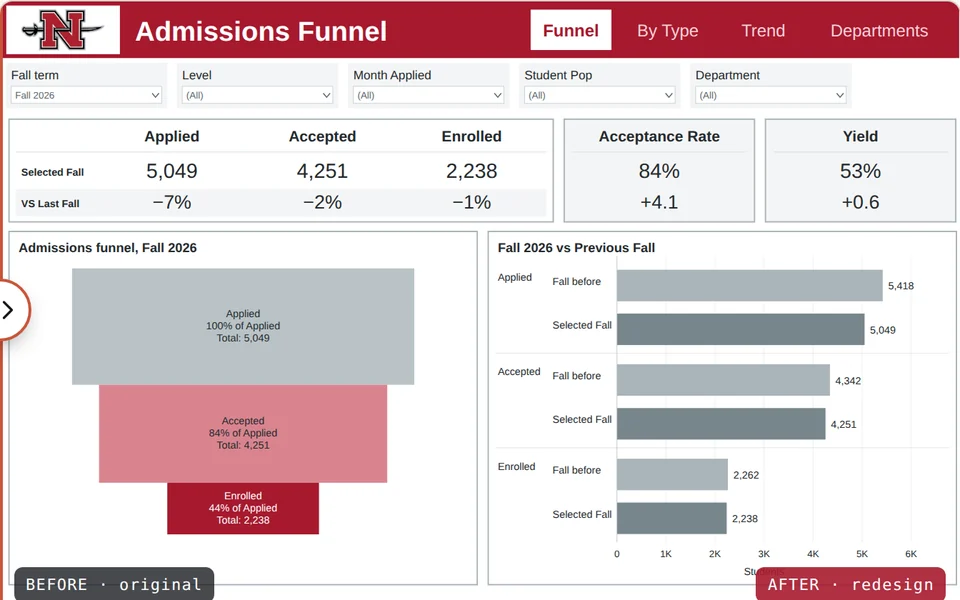
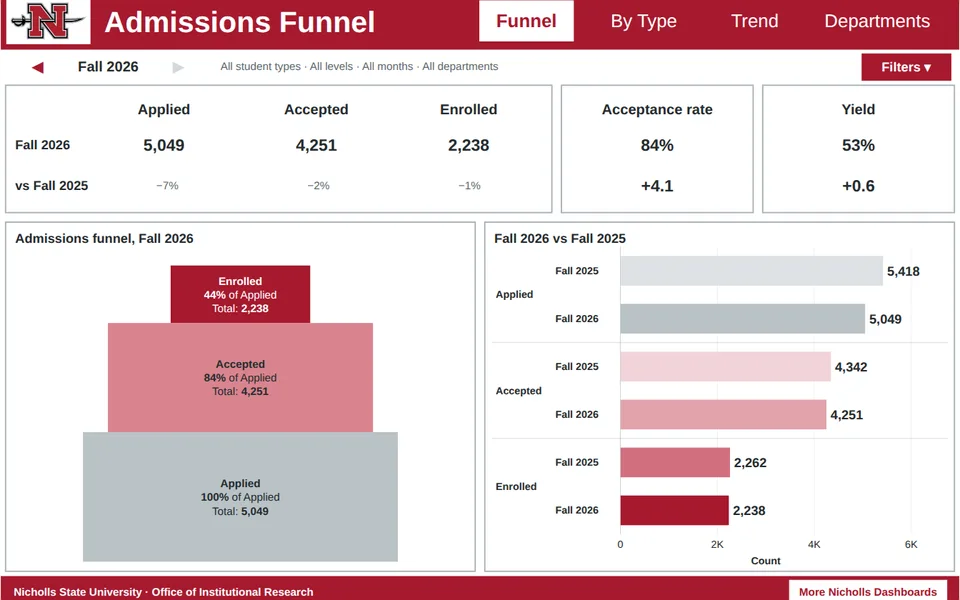
Admissions demo: match the v27 dashboard (fall stepper, filter summary, filters button, key-figure changes, six-shade comparison, footer link) (#18)

diff --git a/src/demo-dash.js b/src/demo-dash.js
@@ -40,71 +40,140 @@ function admissionsModel(D, sel) {
   const cur = c[sel.fall], before = prev ? c[prev] : [null, null, null];
   return {
     fall: D.falls[i].label, prevFall: prev ? D.falls[i - 1].label : '', fallCode: sel.fall, group: D.groups.find((g) => g.key === sel.group).label,
+    groupKey: sel.group, prevCode: prev, nextCode: i < D.falls.length - 1 ? D.falls[i + 1].code : null,
+    prevName: `Fall ${String(sel.fall - 100).slice(0, 4)}`, filtersOpen: !!sel.filtersOpen,
     cur, before,
     acc: ratio(cur[1], cur[0]), yld: ratio(cur[2], cur[1]),
     accPrev: ratio(before[1], before[0]), yldPrev: ratio(before[2], before[1]),
   };
 }
 
+// The redesign as the owner's v27 workbook lays it out (1400 × 900): red header with page buttons,
+// a fall stepper and filter summary with the filters behind one button, key figures with their change,
+// then the funnel and this fall against the one before. Tableau point sizes are drawn at 4/3 px.
+const PT = (n) => Math.round((n * 4) / 3);
+const STEP_OFF = '#d3d8da';
+const FUNNEL_FILL = ['#b9c2c6', '#d9848f', RED];
+const VS_FILL = { before: ['#dde2e4', '#f2d3d8', '#d26f7e'], sel: ['#b9c2c6', '#e3a3ac', RED] };
+const TYPE_NAME = { N: 'New FTF', T: 'Transfer', R: 'Readmit', I: 'International', A: 'Adult', Other: 'Other', grad: 'Graduate' };
+
+function admHeader(title, buttons, active) {
+  let s = R(0, 0, W, 84, RED);
+  s += R(8, 8, 123, 68, '#fff') + `<image href="${BASE}img/nicholls-n.webp" x="12" y="12" width="115" height="60" preserveAspectRatio="xMidYMid meet"/>`;
+  s += T(151, 58, title, { size: PT(32), weight: 700, fill: '#fff' });
+  [[699, 138], [861, 157], [1042, 119], [1185, 191]].forEach(([x, w], i) => {
+    const on = i === active;
+    s += R(x, 12, w, 60, on ? '#fff' : RED);
+    s += T(x + w / 2, 51, buttons[i], { anchor: 'middle', size: PT(20), weight: on ? 700 : 400, fill: on ? RED : '#fff' });
+  });
+  return s;
+}
+
+function filterSummary(m) {
+  const type = m.groupKey === 'all' || m.groupKey === 'ug' ? 'All student types' : TYPE_NAME[m.groupKey] || m.group;
+  const level = m.groupKey === 'ug' ? 'Undergraduate' : m.groupKey === 'grad' ? 'Graduate' : 'All levels';
+  return [type, level, 'All months', 'All departments'].join('   ·   ');
+}
+
+function filterPanel(m) {
+  // Hidden until the Filters button is pressed, as in the workbook.
+  let s = R(870, 134, 518, 302, '#fff', { stroke: FRAME });
+  const card = (x, y, title, value) => {
+    s += T(x + 4, y + 24, title, { size: PT(14), fill: INK });
+    s += R(x + 4, y + 36, 222, 30, '#fff', { stroke: '#c9cfd1' }) + T(x + 12, y + 57, value, { size: PT(12), fill: MUTED });
+    s += `<path d="M${x + 208} ${y + 47}l5 6 5-6" fill="none" stroke="${MUTED}" stroke-width="1.6"/>`;
+  };
+  const type = m.groupKey === 'all' || m.groupKey === 'ug' ? '(All)' : TYPE_NAME[m.groupKey] || m.group;
+  const level = m.groupKey === 'ug' ? 'Undergraduate' : m.groupKey === 'grad' ? 'Graduate' : '(All)';
+  card(886, 150, 'Fall term', m.fall);
+  card(886, 230, 'Student type', type); card(1136, 230, 'Level', level);
+  card(886, 310, 'Month applied', '(All)'); card(1136, 310, 'Department', '(All)');
+  return s;
+}
+
 function admissionsAfter(m) {
-  const [app, acc, enr] = m.cur.map((v) => v || 0);
   let s = R(0, 0, W, H, '#fff');
-  s += header('Admissions Funnel', ['Funnel', 'By Type', 'Trend', 'Departments'], 0);
-  s += filterBar([['Fall term', m.fall], ['Level', m.group === 'Graduate' ? 'Graduate' : m.group === 'Undergraduate' ? 'Undergraduate' : '(All)'], ['Month Applied', '(All)'], ['Student Pop', ['All students', 'Undergraduate', 'Graduate'].includes(m.group) ? '(All)' : m.group], ['Department', '(All)']]);
+  s += admHeader('Admissions Funnel', ['Funnel', 'By Type', 'Trend', 'Departments'], 0);
 
-  // Key figures table
-  s += tile(12, 172, 795, 150, '');
-  const cols = [250, 470, 688];
-  ['Applied', 'Accepted', 'Enrolled'].forEach((h, k) => { s += T(cols[k], 205, h, { anchor: 'middle', size: 22, weight: 700, fill: INK }); });
-  s += L(22, 220, 797, 220, '#d5dadd');
-  s += R(22, 274, 775, 40, BAR);
-  s += T(30, 255, 'Selected Fall', { size: 15, weight: 700, fill: INK }) + T(30, 300, 'VS Last Fall', { size: 15, weight: 700, fill: INK });
+  // Fall stepper: ◀ Fall 2026 ▶, an arrow greys out at the first or last fall.
+  const canPrev = !!m.prevCode, canNext = !!m.nextCode;
+  [[54, '◀', canPrev ? RED : STEP_OFF, canPrev ? 'prev' : ''], [157, m.fall, INK, ''], [260, '▶', canNext ? RED : STEP_OFF, canNext ? 'next' : '']].forEach(([x, t, fill, act]) => {
+    if (act) s += `<rect x="${x - 50}" y="90" width="100" height="37" fill="transparent" data-act="${act}" class="dash-act"><title>${act === 'prev' ? 'Previous fall' : 'Next fall'}</title></rect>`;
+    s += T(x, 116, t, { anchor: 'middle', size: PT(16), weight: 700, fill });
+  });
+  s += T(321, 114, filterSummary(m), { size: PT(12), fill: MUTED });
+  s += R(1258, 90, 130, 39, m.filtersOpen ? '#fff' : RED, { stroke: RED });
+  s += T(1323, 116, m.filtersOpen ? 'Filters ▴' : 'Filters ▾', { anchor: 'middle', size: PT(14), weight: 700, fill: m.filtersOpen ? RED : '#fff' });
+  s += `<rect x="1258" y="90" width="130" height="39" fill="transparent" data-act="filters" class="dash-act"><title>Show or hide the filters</title></rect>`;
+
+  // Key figures: Applied / Accepted / Enrolled for the fall, and the change on the fall before.
+  s += tile(7, 136, 798, 186, '');
+  const colX = (k, left) => left + ((795 - left) * (k + 0.5)) / 3;
+  ['Applied', 'Accepted', 'Enrolled'].forEach((h, k) => { s += T(colX(k, 127), 178, h, { anchor: 'middle', size: PT(16), weight: 700, fill: INK }); });
+  s += T(21, 230, m.fall, { size: PT(14), weight: 700, fill: INK }) + T(21, 289, `vs ${m.prevName}`, { size: PT(14), weight: 700, fill: INK });
   m.cur.forEach((v, k) => {
-    s += T(cols[k], 258, fmt(v), { anchor: 'middle', size: 30, fill: INK });
-    s += T(cols[k], 303, signedPct(change(v, m.before[k])), { anchor: 'middle', size: 28, fill: INK });
+    s += T(colX(k, 127), 232, fmt(v), { anchor: 'middle', size: PT(18), weight: 700, fill: INK });
+    s += T(colX(k, 133), 288, signedPct(change(v, m.before[k])), { anchor: 'middle', size: PT(12), fill: MUTED });
   });
-  [[823, 'Acceptance Rate', m.acc, m.accPrev], [1117, 'Yield', m.yld, m.yldPrev]].forEach(([x, t, v, p]) => {
-    s += R(x, 172, 278, 150, BAR, { stroke: FRAME, sw: 2 });
-    s += T(x + 139, 205, t, { anchor: 'middle', size: 22, weight: 700, fill: INK }) + L(x + 12, 220, x + 266, 220, '#d5dadd');
-    s += T(x + 139, 258, pct(v), { anchor: 'middle', size: 30, fill: INK });
-    s += T(x + 139, 303, signedPts(v != null && p != null ? (v - p) * 100 : null), { anchor: 'middle', size: 28, fill: INK });
+  [[819, 'Acceptance rate', m.acc, m.accPrev], [1113, 'Yield', m.yld, m.yldPrev]].forEach(([x, t, v, p]) => {
+    s += tile(x, 136, 280, 186, '');
+    s += T(x + 140, 178, t, { anchor: 'middle', size: PT(16), weight: 700, fill: INK });
+    s += T(x + 140, 232, pct(v), { anchor: 'middle', size: PT(18), weight: 700, fill: INK });
+    s += T(x + 140, 291, signedPts(v != null && p != null ? (v - p) * 100 : null), { anchor: 'middle', size: PT(18), weight: 700, fill: INK });
   });
 
-  // Funnel: width and height both follow the count, centered.
-  s += tile(12, 336, 684, 516, `Admissions funnel, ${m.fall}`);
-  const top = 390, maxW = 500, maxH = 170, cx = 354;
-  let y = top;
+  // Funnel: one stacked bar, each status as tall and as wide as its count, Applied at the base.
+  s += tile(7, 336, 686, 510, `Admissions funnel, ${m.fall}`);
+  const [app] = m.cur.map((v) => v || 0);
+  const tot = m.cur.reduce((a, v) => a + (v || 0), 0);
+  const yB = 832, yT = 382, top = ticks(tot || 1, 6).top, cx = 350, maxW = 460;
+  const sy = (v) => yB - ((yB - yT) * v) / top;
+  let acc = 0;
   ['Applied', 'Accepted', 'Enrolled'].forEach((st, k) => {
-    const v = m.cur[k] || 0, f = app ? v / app : 0;
-    const w = maxW * f, h = Math.max(maxH * f, 34);
-    const fill = ['#b9c2c6', '#d9848f', RED][k];
-    const ink = k === 2 ? '#fff' : INK;
-    const tip = `${st}, ${m.fall}: ${fmt(m.cur[k])} students · ${pct(f)} of applied`;
-    s += R(cx - w / 2, y, w, h, fill, { tip, tour: `adm-funnel-${k}` });
-    const mid = y + h / 2;
-    s += T(cx, mid - 14, st, { anchor: 'middle', size: 15, fill: ink }) + T(cx, mid + 4, `${pct(f)} of Applied`, { anchor: 'middle', size: 15, fill: ink }) + T(cx, mid + 22, `Total: ${fmt(m.cur[k])}`, { anchor: 'middle', size: 15, fill: ink });
-    y += h;
+    const v = m.cur[k] || 0, f = app ? v / app : 0, w = Math.max(maxW * f, 24);
+    const ya = sy(acc + v), yb = sy(acc);
+    const ofAcc = k && m.cur[1] ? `${pct(v / m.cur[1])} of Accepted\n` : '';
+    s += R(cx - w / 2, ya, w, yb - ya, FUNNEL_FILL[k], { tip: `${st}\n${pct(f)} of Applied\n${ofAcc}Total: ${fmt(m.cur[k])}`, tour: `adm-funnel-${k}` });
+    const ink = k === 2 ? '#fff' : INK, mid = (ya + yb) / 2;
+    s += T(cx, mid - 14, st, { anchor: 'middle', size: PT(12), weight: 700, fill: ink });
+    s += `<text x="${cx}" y="${mid + 6}" text-anchor="middle" font-size="${PT(12)}" fill="${ink}"><tspan font-weight="700">${pct(f)}</tspan> of Applied</text>`;
+    s += `<text x="${cx}" y="${mid + 26}" text-anchor="middle" font-size="${PT(12)}" fill="${ink}">Total: <tspan font-weight="700">${fmt(m.cur[k])}</tspan></text>`;
+    acc += v;
   });
 
-  // Selected fall vs fall before
-  s += tile(712, 336, 684, 516, `${m.fall} vs Previous Fall`);
-  const x0 = 900, x1 = 1330, { top: mx, step } = ticks(Math.max(app, ...(m.before.map((v) => v || 0)), 1), 6);
+  // This fall against the fall before: Status / Academic Period rows, six shades.
+  s += tile(707, 336, 686, 510, `${m.fall} vs ${m.prevName}`);
+  const rows = [];
+  ['Applied', 'Accepted', 'Enrolled'].forEach((st, k) => {
+    if (m.prevCode) rows.push({ st, k, lab: m.prevFall, v: m.before[k], fill: VS_FILL.before[k] });
+    rows.push({ st, k, lab: m.fall, v: m.cur[k], fill: VS_FILL.sel[k] });
+  });
+  const x0 = 905, x1 = 1330, rT = 372, rB = 792, band = (rB - rT) / rows.length;
+  const { top: mx, step } = ticks(Math.max(...rows.map((r) => r.v || 0), 1), 5);
   const sx = (v) => x0 + ((x1 - x0) * v) / mx;
-  for (let t = 0; t <= mx + 1e-9; t += step) { s += L(sx(t), 372, sx(t), 790, '#eceeef') + T(sx(t), 812, short(Math.round(t)), { anchor: 'middle', size: 14, fill: INK }); }
-  s += T((x0 + x1) / 2, 838, 'Students', { anchor: 'middle', size: 15, fill: INK });
-  ['Applied', 'Accepted', 'Enrolled'].forEach((st, k) => {
-    const gy = 378 + k * 138;
-    s += T(726, gy + 30, st, { size: 15, fill: INK });
-    [['Fall before', m.before[k]], ['Selected Fall', m.cur[k]]].forEach(([lab, v], j) => {
-      const by = gy + 6 + j * 64;
-      s += T(806, by + 30, lab, { size: 15, fill: INK });
-      s += R(x0, by + 8, sx(v || 0) - x0, 46, j ? GRAY : '#aab4b9', { tip: `${st}, ${j ? m.fall : m.prevFall}: ${fmt(v)} students` });
-      s += T(sx(v || 0) + 8, by + 37, fmt(v), { size: 15, fill: INK });
-    });
-    if (k < 2) s += L(722, gy + 136, 1386, gy + 136, '#e2e5e7');
+  for (let t = 0; t <= mx + 1e-9; t += step) s += L(sx(t), rT, sx(t), rB, '#eceeef') + T(sx(t), rB + 20, short(Math.round(t)), { anchor: 'middle', size: PT(11), fill: INK });
+  s += T((x0 + x1) / 2, rB + 44, 'Count', { anchor: 'middle', size: PT(11), weight: 700, fill: INK });
+  const per = m.prevCode ? 2 : 1;
+  rows.forEach((r, i) => {
+    const y = rT + i * band, bh = Math.min(band * 0.62, 50);
+    if (i % per === 0) {
+      s += T(723, y + (band * per) / 2 + 5, r.st, { size: PT(11), weight: 700, fill: INK });
+      if (i) s += L(717, y, 1383, y, '#d5dadd');
+    }
+    s += T(810, y + band / 2 + 5, r.lab, { size: PT(11), weight: 700, fill: INK });
+    s += R(x0, y + (band - bh) / 2, sx(r.v || 0) - x0, bh, r.fill, { tip: `${r.st}, ${r.lab}\nCount: ${fmt(r.v)}` });
+    s += T(sx(r.v || 0) + 6, y + band / 2 + 7, fmt(r.v), { size: PT(14), weight: 700, fill: INK });
   });
-  s += L(x0, 372, x0, 790, '#c9cfd1');
-  return s + footer();
+  s += L(x0, rT, x0, rB, '#c9cfd1');
+
+  // Footer band with the link out to the rest of the catalog.
+  s += R(0, 853, W, 47, RED);
+  s += T(19, 882, 'Nicholls State University   ·   Office of Institutional Research', { size: PT(12), weight: 600, fill: '#fff' });
+  s += R(1152, 859, 230, 35, '#fff', { stroke: '#fff' }) + T(1267, 882, 'More Nicholls Dashboards', { anchor: 'middle', size: PT(12), weight: 700, fill: RED });
+  s += `<a href="https://www.nicholls.edu/irep/dashboards/" target="_blank" rel="noopener"><rect x="1152" y="859" width="230" height="35" fill="transparent" class="dash-act"><title>More Nicholls dashboards (opens a new tab)</title></rect></a>`;
+
+  if (m.filtersOpen) s += filterPanel(m);
+  return s;
 }
 
 function admissionsBefore(m) {
@@ -299,13 +368,13 @@ function ftfBefore(m) {
 const DASHES = {
   admissions: { label: 'Admissions', file: 'admissions.json', model: admissionsModel, before: admissionsBefore, after: admissionsAfter,
     beforeNote: 'Before: one funnel sized by count, default colors, raw field names, filters stacked down the side.',
-    afterNote: 'After: the three counts and their change first, rates beside them, then the funnel and this fall against last.' },
+    afterNote: 'After: step through falls with the arrows, the three counts and their change first, rates beside them, then the funnel and this fall against last; the filters wait behind one button.' },
   ftf: { label: 'First-Time Freshmen', file: 'ftf.json', model: ftfModel, before: ftfBefore, after: ftfAfter,
     beforeNote: 'Before: every race on one axis, so the smaller groups flatten against the bottom; term codes instead of names.',
     afterNote: 'After: the latest fall at a glance, then the trend; race split so each group is readable on its own scale.' },
 };
 
-const state = { dash: 'admissions', fall: null, group: 'all', split: 50, data: {} };
+const state = { dash: 'admissions', fall: null, group: 'all', split: 50, filtersOpen: false, data: {} };
 
 root.innerHTML = `${HERO ? '' : `
   <div class="demo__head">
@@ -450,6 +519,16 @@ root.querySelectorAll('[data-split]').forEach((b) => b.addEventListener('click',
 root.querySelectorAll('[data-dash]').forEach((b) => b.addEventListener('click', () => switchTo(b.dataset.dash)));
 fallSel.addEventListener('change', () => { state.fall = Number(fallSel.value); render(); });
 groupSel.addEventListener('change', () => { state.group = groupSel.value; render(); });
+// The redesign's own controls: the fall stepper arrows and the Filters button.
+svgAfter.addEventListener('click', (e) => {
+  const act = e.target.closest && e.target.closest('[data-act]');
+  if (!act || state.dash !== 'admissions') return;
+  const falls = state.data.admissions.falls.map((f) => f.code), i = falls.indexOf(state.fall);
+  if (act.dataset.act === 'filters') { state.filtersOpen = !state.filtersOpen; render({ animate: false }); return; }
+  const j = act.dataset.act === 'prev' ? i - 1 : i + 1;
+  if (j < 0 || j >= falls.length) return;
+  state.fall = falls[j]; fallSel.value = String(state.fall); render();
+});
 
 // Hover text for marks (whichever side of the seam is showing).
 function showTip(text, clientX, clientY) {

diff --git a/src/styles.css b/src/styles.css
@@ -843,6 +843,7 @@ kbd {
 .dash-svg text { pointer-events: none; }
 .dash-svg .hit-line { pointer-events: stroke; }
 .dash-svg [data-tip] { cursor: default; }
+.dash-svg .dash-act { cursor: pointer; }
 .dash-seam {
   position: absolute; top: 0; bottom: 0; left: calc(var(--split) * 1%); width: 3px; margin-left: -1.5px;
   background: var(--accent); cursor: ew-resize; touch-action: none;
@@ -862,7 +863,7 @@ kbd {
 }
 .dash-tag { transition: opacity 0.2s; }
 .dash-tag--before { left: 10px; opacity: var(--before-tag, 1); }
-.dash-tag--after { right: 10px; background: rgba(166, 25, 46, 0.9); opacity: var(--after-tag, 1); }
+.dash-tag--after { right: 10px; bottom: calc(5.3% + 8px); background: rgba(166, 25, 46, 0.9); opacity: var(--after-tag, 1); }
 .dash-tip {
   position: absolute; z-index: 5; pointer-events: none; display: flex; flex-direction: column; gap: 2px; max-width: 280px;
   padding: 8px 10px; border-radius: 8px; font-size: 13px; background: #fff; color: #15171C;
